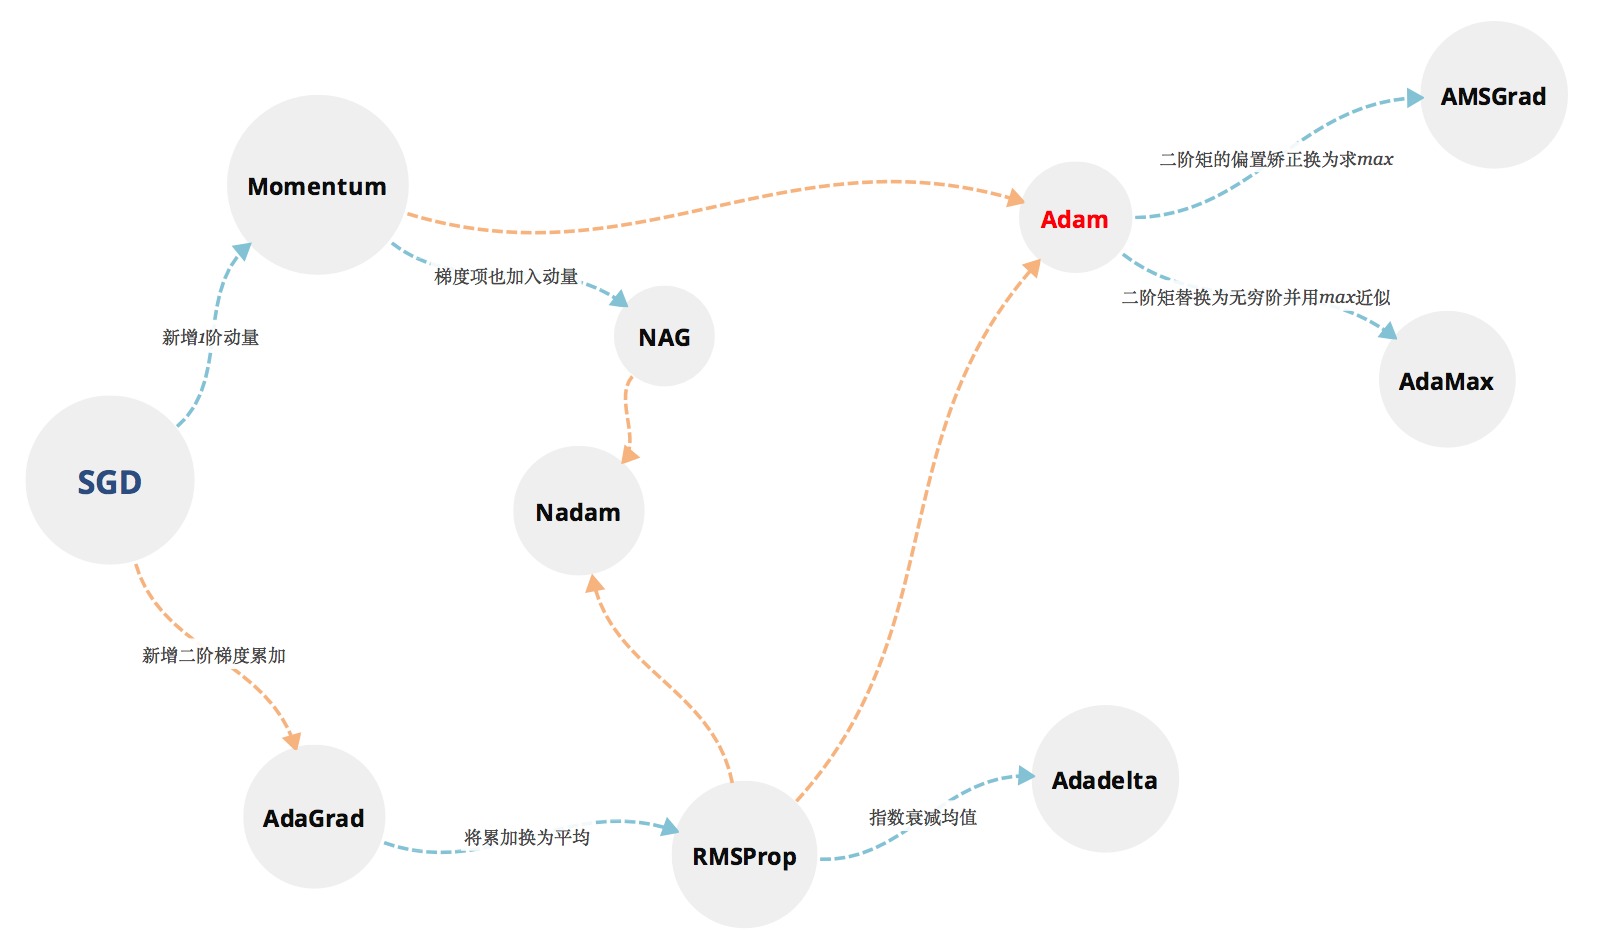
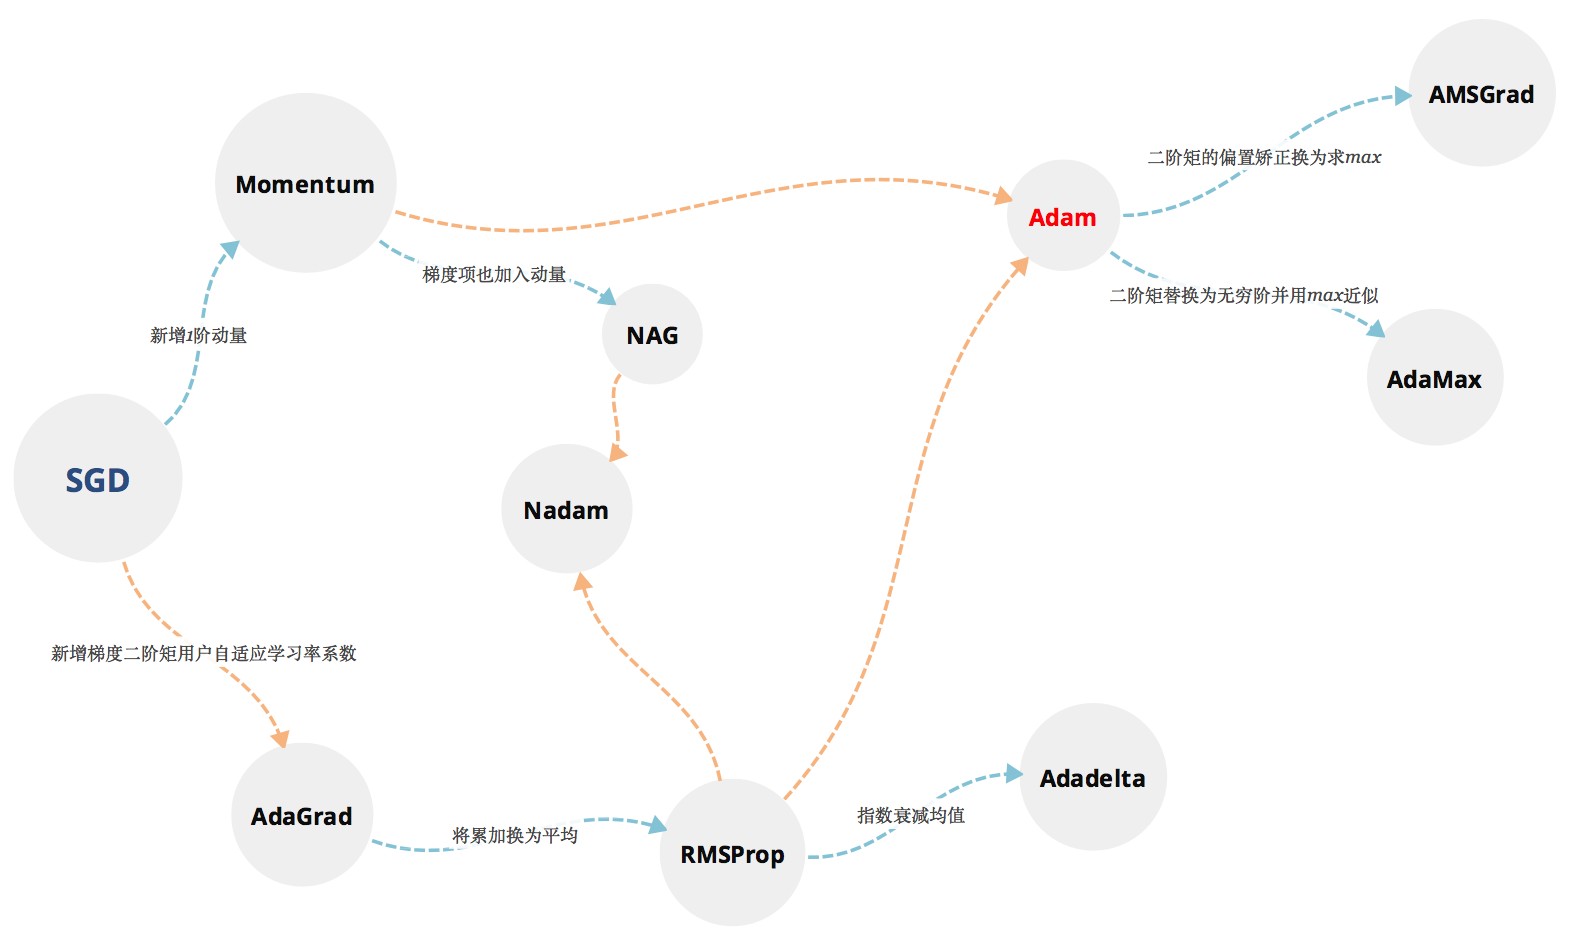
Site updated: 2019-11-04 10:35:42

diff --git a/2018/12/27/Machine Learning/Study-Gradient-Descent-Optimization/index.html b/2018/12/27/Machine Learning/Study-Gradient-Descent-Optimization/index.html
@@ -28,9 +28,9 @@
 
 由于">
 <meta property="og:image" content="/img/Study-Gradient-Descent-Optimization/Gradient_descent.png">
-<meta property="og:image" content="/img/Study-Gradient-Descent-Optimization/rel_graph.png">
 <meta property="og:image" content="/img/Study-Gradient-Descent-Optimization/moment.png">
 <meta property="og:image" content="/img/Study-Gradient-Descent-Optimization/nesterov_update_vector.png">
+<meta property="og:image" content="/img/Study-Gradient-Descent-Optimization/rel_graph.png">
 <meta name="twitter:card" content="summary">
 <meta name="twitter:title" content="记一记梯度下降极其优化算法">
 <meta name="twitter:description" content="本文主要是对于An overview of gradient descent optimization algorithms的学习和理解，方便记忆
@@ -139,8 +139,6 @@
 <center><img src="/img/Study-Gradient-Descent-Optimization/Gradient_descent.png" width="200px"></center>
 
 <p>由于被广泛使用，因此在梯度下降法出了很多变种以及许多优化算法，并且他们同时都是朝着加速收敛的方向进行优化。</p>
-<center><img src="/img/Study-Gradient-Descent-Optimization/rel_graph.png" width="650px"></center>
-
 <a id="more"></a>
 <h2 id="梯度下降极其变种">梯度下降极其变种</h2><h3 id="Batch_gradient_descent">Batch gradient descent</h3><p>批量梯度下降法是原始的方法，他需要对整个数据集进行计算之后才更新梯度:<br>$$\theta = \theta - \eta \cdot \nabla_{\eta} J(\theta)$$</p>
 <p>用代码来表示就是这样的:<br><figure class="highlight python"><table><tr><td class="gutter"><pre><span class="line">1</span><br><span class="line">2</span><br><span class="line">3</span><br></pre></td><td class="code"><pre><span class="line"><span class="keyword">for</span> i <span class="keyword">in</span> range(nb_epochs):</span><br><span class="line">  params_grad = evaluate_gradient(loss_function, data, params)</span><br><span class="line">  params = params - learning_rate * params_grad</span><br></pre></td></tr></table></figure></p>
@@ -246,7 +244,10 @@
 <h3 id="AMSGrad">AMSGrad</h3><p><code>Adam</code>由于是通过累加平均二阶矩来进行参数学习率的自适应，当某些minbatch提供的信息量很大并且梯度很大时，他们会被平均掉，影响整体的训练，最终会陷入局部最优。<br>为了避免这种局部最优的情况，AMSGrad这个优化算法将二阶矩的矫正阶段替换为求$max$，用于增强高信息量的minbatch信息：</p>
 <p>$$ m_t = \beta m_{t-1} + (1- \beta_1^t) g_t<br>\\ v_t = \beta_2 v_{t-1} + (1- \beta_2^t) g^2_t<br>\\ \hat{v}_t = max(\hat{v}_{t-1} , v_t)<br>\\ \theta_{t+1} = \theta_t - \frac{\eta}{\sqrt{\hat{v}_t} + \epsilon} m_t $$</p>
 <p>虽然作者有实验证明在一些小数据集上<code>AMSGrad</code>的优化效果要好于<code>Adam</code>，但是也有好多人也实验了<code>AMSGrad</code>的性能比<code>Adam</code>更加差 -_-</p>
-<h2 id="总结">总结</h2><p>比较有创新性的应该还是<code>Momentum</code>和<code>RMSProp</code>，但是他们的结合<code>Adam</code>将更加普适应，他目前是各位普通炼金术士的首选</p>
+<h2 id="总结">总结</h2><p>其实上面几个优化算法的迭代都是循序渐进并且有不少联系，归纳起来就是：</p>
+<center><img src="/img/Study-Gradient-Descent-Optimization/rel_graph.png" width="650px"></center>
+
+<p>比较有创新性的应该还是<code>Momentum</code>和<code>RMSProp</code>，但是他们的结合<code>Adam</code>将更加普适应，他目前是各位普通炼金术士的首选</p>
 <h2 id="参考">参考</h2><ol>
 <li><a href="https://ruder.io/optimizing-gradient-descent/" target="_blank" rel="external">https://ruder.io/optimizing-gradient-descent/</a></li>
 </ol>

diff --git a/index.html b/index.html
@@ -245,7 +245,6 @@
 <center><img src="/img/Study-Gradient-Descent-Optimization/Gradient_descent.png" width="200px" /></center>
 
 <p>由于被广泛使用，因此在梯度下降法出了很多变种以及许多优化算法，并且他们同时都是朝着加速收敛的方向进行优化。</p>
-<center><img src="/img/Study-Gradient-Descent-Optimization/rel_graph.png" width="650px" /></center>
         
         
         <p class="article-more-link">
